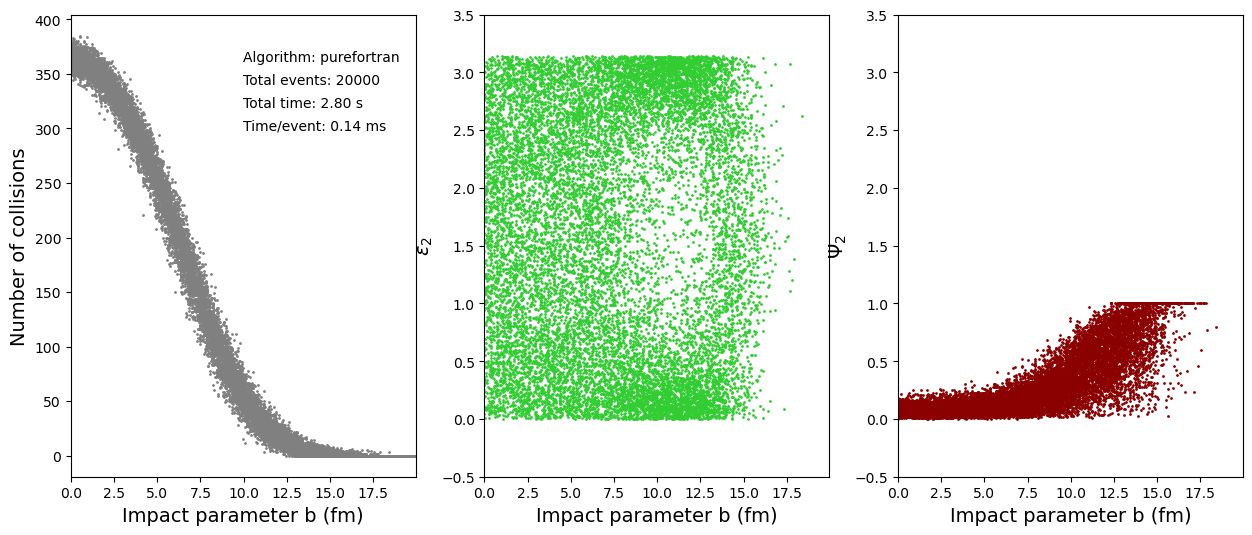
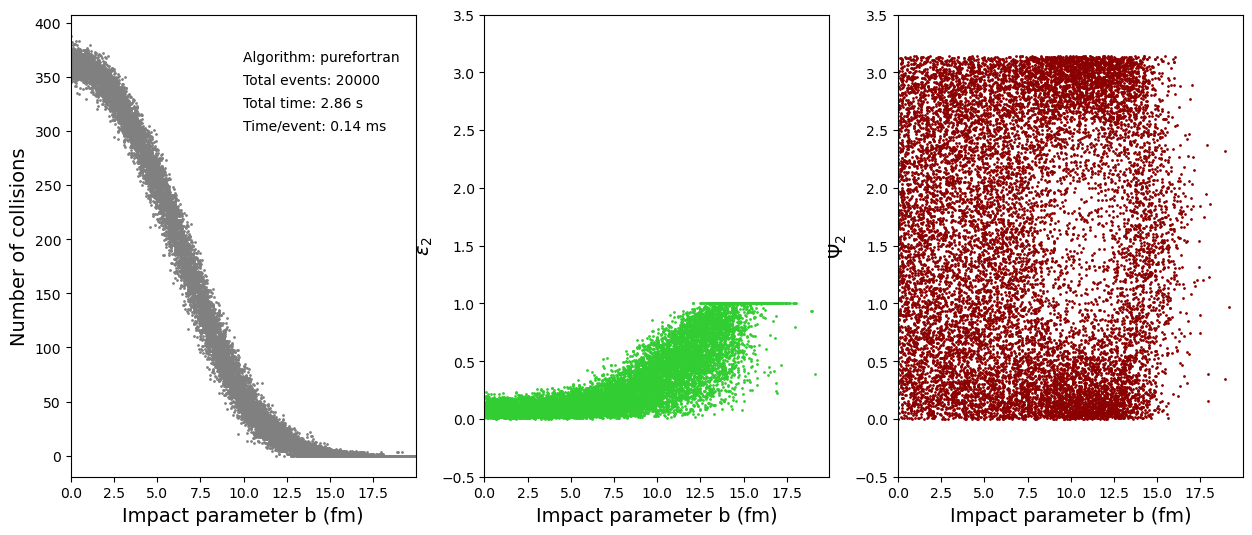
fix pure fort bug(switch in wrong func)

diff --git a/main.py b/main.py
@@ -26,7 +26,7 @@ def main_purefort():
   cols = np.zeros((par.n_events,par.b_array.shape[0]), 'f', order='F')
   ecc2 = np.zeros((par.n_events,par.b_array.shape[0]), 'f', order='F')
   psi2 = np.zeros((par.n_events,par.b_array.shape[0]), 'f', order='F')
-  nucphys.simulation.proc(par.b_array, par.A, cols, ecc2, psi2)
+  nucphys.simulation.proc(par.b_array, par.A, cols, psi2, ecc2)
   time1 = time.time()
   print(f"Pure fortran (sim) version took {time1 - time0:.2f} seconds")
 
